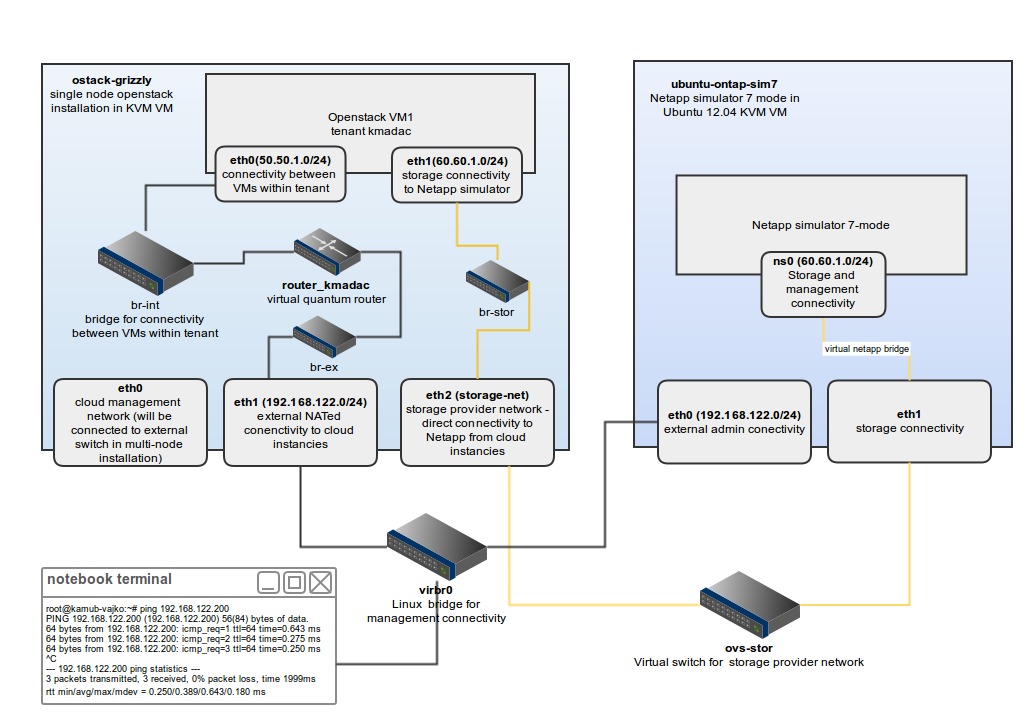
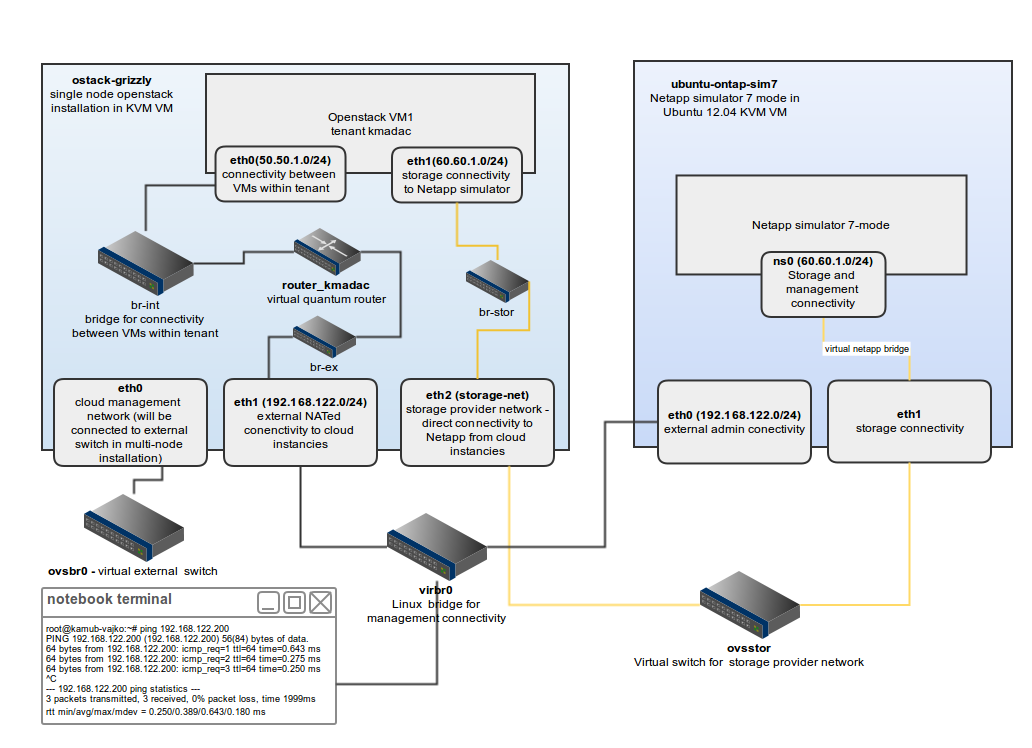
Pictures and about page added

diff --git a/about/index.html b/about/index.html
@@ -6,19 +6,19 @@ title: "About Kamil Madac"
 <section class="content about">
   <h1 class="big thin">Kamil Madac</h1>
 
-  <img src="/images/carlos-carine.jpg" alt="Carlos Alexandro Becker"
-    class="noclip" width="650" height="300" style="margin-bottom: 15px" />
+  <img src="/images/kamilaly.jpg" alt="Kamil Madac"
+    class="noclip" width="588" height="200" style="margin-bottom: 15px" />
 
   <p>
-    Kamil works as Storage/System engineer at biiig international company. When he's not
+    Kamil works as Storage/System engineer at international company. When he's not
     doing that, he's <a href="http://kmadac.github.io">blogging</a>,
     hacking on <a href="https://github.com/kmadac">open source</a>,
     building new Openstack installations, programming,  
-    preparing new multi-cloud hosting solution Cloust, and learning new things.
-    I'm automation fan and I like to have automated as most things as is possible, 
+    preparing new multi-cloud web/mail hosting solution called Cloust, and learning new things.
+    He is automation fan and he would like to have automated as most things as is possible, 
     but not his life :). 
     He has proficiency in Python, but also knew something about C, C# and Bash.
-    If he will have free time, he plans to learn Ruby. 
+    If he will have free time, he plans to learn Ruby.  
   </p>
 
   <p>

diff --git a/_drafts/2013-07-17-Building-Virtual-Openstack-Quantum-Test-Env.md b/_drafts/2013-07-17-Building-Virtual-Openstack-Quantum-Test-Env.md
@@ -4,6 +4,151 @@ title: "Building Virtual Openstack Quantum Testing Environment"
 category: posts
 ---
 
+
+If I'm talking about `VM`, it is virtual machine in KVM in my notebook where Openstack and his services are installed and Netapp simulator is installed. In case of `instances`, I mean virtual machines created within OpenStack, so it is VM in VM.  
+  
+### Why I did'n use DevStack?
+
+I wanted to simulate my original real environment and real installation steps as close to reality as possible. Installation of [DevStack](http://devstack.org/) is automated and it was hard for me to guess what is going on in background.
+
 Here you can see my environment which I built in my notebook:
 
 ![My environment](/images/openstack_vm_testing_environment.png)
+
+You can see two VMs which simulates two physical nodes. One node `ostack-grizzly` which was used for installation of Grizzly single node installation and `ubuntu-ontap-sim7` which was Ubuntu 12.04 LTS with Netapp Simulator in 7-mode.
+
+### Virtual switch for connecting VMs
+I created two virtual switch in order to interconnect my two VMs. One switch `ovsbr0` for which will be used for connection between OpenStack nodes (as this article is only about single-node installation, I created it only for possible future use) and `ovsstor` used for simulation of physical connectivity between OpenStack instances and Netapp (provider network)
+
+Create two openvswitch switches:
+
+    ovs-vsctl add-br ovsbr0
+    ovs-vsctl add-br ovsstor
+
+## ostack-grizzly VM
+
+I created VM with 2GB of RAM and 6GB of disk space. I installed Ubuntu 12.04 LTS and used KVM as Hypervisor and 
+configured 3 interfaces for VM in following order - eth0, eth1, eth2. Here is snippet from output of command
+
+    virsh dumpxml ostack-grizzly
+
+{% highlight xml %}
+    <interface type='bridge'>
+      <mac address='52:54:00:5c:eb:4a'/>
+      <source bridge='ovsbr0'/>
+      <virtualport type='openvswitch'>
+        <parameters interfaceid='784ee2ba-6cd6-948a-922a-bda1abcdf01c'/>
+      </virtualport>
+      <target dev='vnet1'/>
+      <alias name='net1'/>
+      <address type='pci' domain='0x0000' bus='0x00' slot='0x07' function='0x0'/>
+    </interface>
+
+    <interface type='network'>
+      <mac address='52:54:00:2c:e0:52'/>
+      <source network='default'/>
+      <target dev='vnet0'/>
+      <model type='virtio'/>
+      <alias name='net0'/>
+      <address type='pci' domain='0x0000' bus='0x00' slot='0x03' function='0x0'/>
+    </interface>
+
+    <interface type='bridge'>
+      <mac address='52:54:00:9b:83:16'/>
+      <source bridge='ovsstor'/>
+      <virtualport type='openvswitch'>
+        <parameters interfaceid='0707a806-bf64-ac37-c548-1a57c65bc60b'/>
+      </virtualport>
+      <target dev='vnet4'/>
+      <alias name='net2'/>
+      <address type='pci' domain='0x0000' bus='0x00' slot='0x08' function='0x0'/>
+    </interface>
+{% endhighlight %}
+
+**eth0** - interface used by OpenStack services. Openstack Services and APIs are listening on this interface. In case of multi-node installation, compute node and network node communicates with control node over this interface.
+
+**eth1** - interface used for external connectivity to OpenStack instances and also management interface for KVM VM. I used IP addresse assigned on this interface to ssh to VM. Connected to virbr0.
+
+**eth2** - interface used for provider network connectivity. IP addresses from this network will be assigned to instances created in OpenStack 
+
+I used **Virtual Machine Manager** to configure VMs. There is a trick to connect created interface to openvswitch. Firstly, create interface as you would like to create normal single interface.
+
+![Create interface 1](/images/ovs-virtualmachinemanager1.png)
+
+Finish it, Select it in the left menu, change source mode to **Bridge** and put `openwswitch` to Virtual port type
+
+![Create interface 2](/images/ovs-virtualmachinemanager2.png)
+
+Then select **Specify shared device name** in **Source device** and enter Bridge name (`ovsstor` and `ovsbr0` in my case).
+
+![Create interface 3](/images/ovs-virtualmachinemanager3.png)
+
+After boot up of VM, 3 interfaces were detected by Linux kernel. I had to reorder it them by modification of udev rules in */etc/udev/rules.d/70-persistent-net.rules*. In case you cannot see any rule, you can see how to generate them in [another article](/posts/18-Regenerate-net-udev-rules-in-ubuntu-12.04/) in my blog. It is important to know which interface is connected to which virtual switch.
+
+I used following configuration in */etc/networking/interfaces* to have everything prepared for OpenStack installation.
+
+{% highlight bash %}
+# The loopback network interface
+auto lo
+iface lo inet loopback
+
+# The primary network interface
+auto eth0
+iface eth0 inet static
+address 10.10.100.51
+netmask 255.255.255.0
+
+auto eth1
+iface eth1 inet manual
+up ifconfig $IFACE 0.0.0.0 up
+up ip link set $IFACE promisc on
+down ip link set $IFACE promisc off
+down ifconfig $IFACE down
+
+auto br-ex
+iface br-ex inet static
+address 192.168.122.200
+netmask 255.255.255.0
+gateway 192.168.122.1
+dns-nameservers 8.8.8.8
+
+auto eth2
+iface eth2 inet manual
+up ifconfig $IFACE 0.0.0.0 up
+up ip link set $IFACE promisc on
+down ip link set $IFACE promisc off
+down ifconfig $IFACE down
+
+auto br-stor
+iface br-ex inet manual
+up ifconfig br-stor up
+{% endhighlight %}
+
+According to [this](http://four-eyes.net/2013/06/open-vswitch-basic-initial-setup-on-ubuntu-12-04/) article I used workaround to turn off networking boot delay, because */etc/network/interfaces* is not compatible with OpenvSwitch. I modified */etc/init/failsafe.conf* and decreased sleep time to 1:
+
+{% highlight bash %}
+$PLYMOUTH message --text="Waiting for network configuration..." || :
+sleep 40
+$PLYMOUTH message --text="Waiting up to 60 more seconds for network configuration..." || :
+sleep 59
+$PLYMOUTH message --text="Booting system without full network configuration..." || :
+{% endhighlight %}
+
+to
+
+{% highlight bash %}
+$PLYMOUTH message --text="Waiting for network configuration..." || :
+sleep 1
+$PLYMOUTH message --text="Waiting up to 60 more seconds for network configuration..." || :
+sleep 1
+$PLYMOUTH message --text="Booting system without full network configuration..." || :
+{% endhighlight %}
+
+
+
+
+
+
+
+
+
